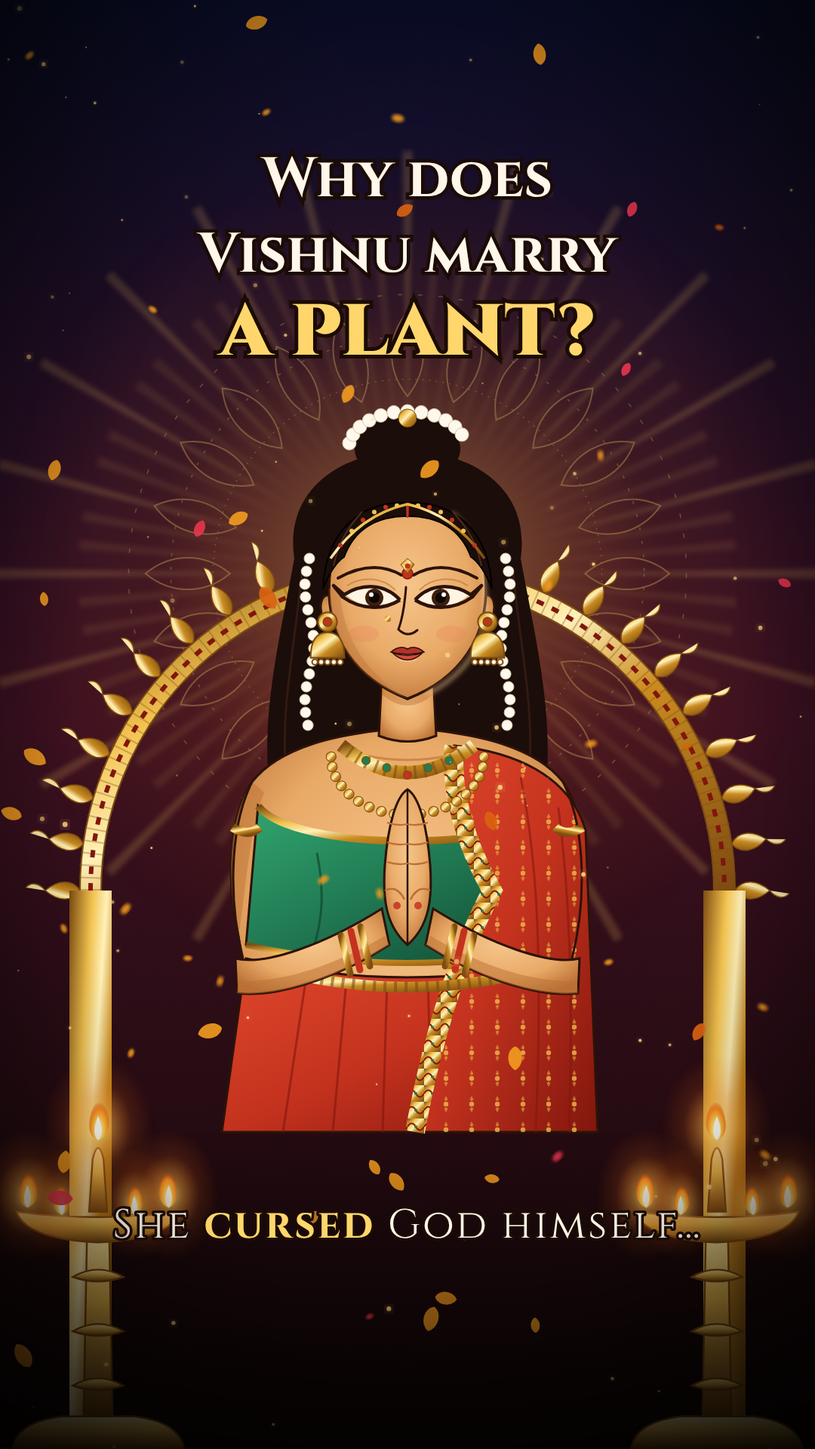
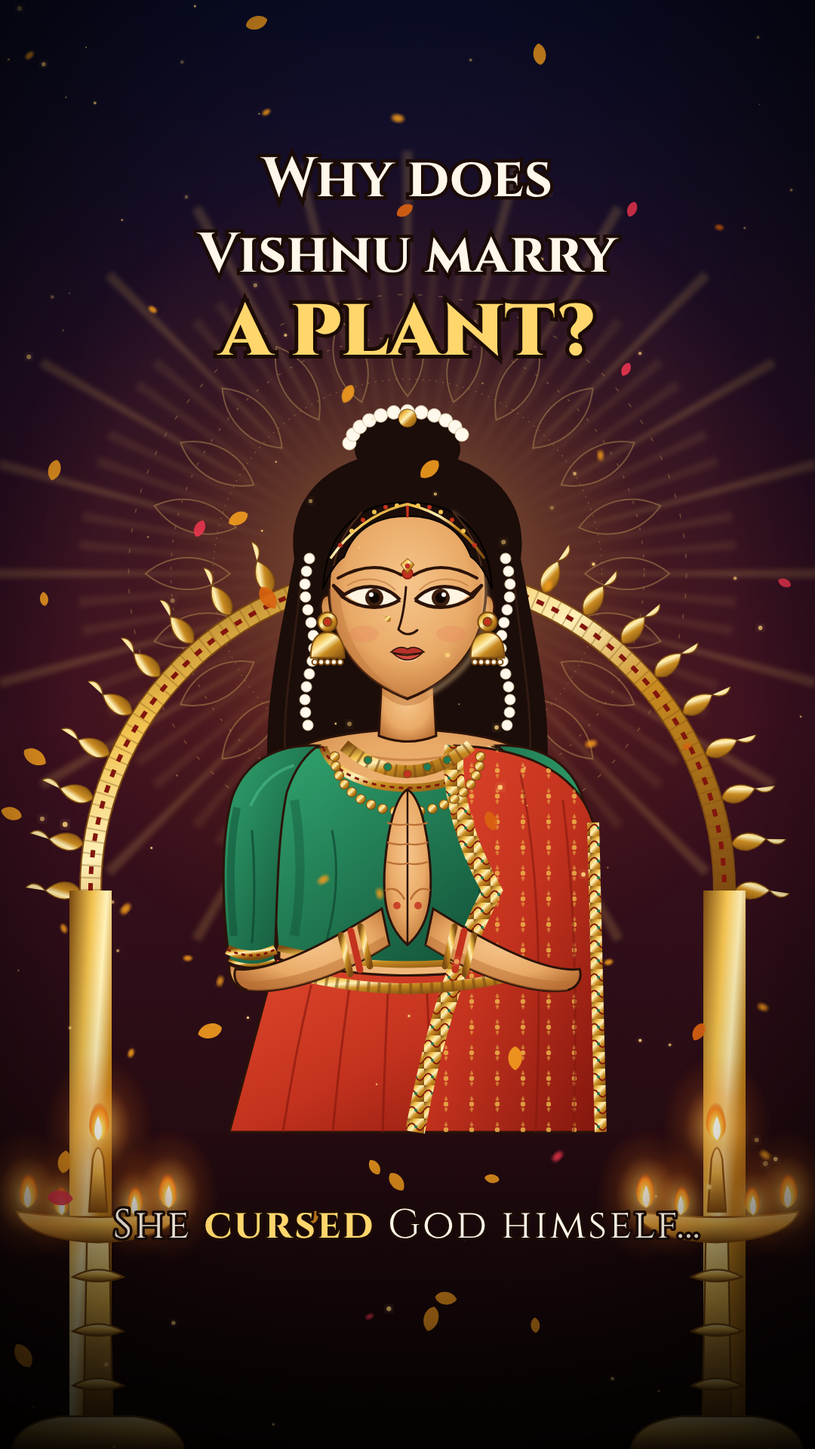
Fix Tulasi blouse sleeves and rebuild Vishnu anatomy
- Vrinda: elbow-length green blouse sleeves with gold borders, natural shoulders, re-anchored forearms
- Vishnu: V-shaped chest with slim waist, continuous spline arms (shoulder-elbow-wrist), detailed open palms for abhaya/varada, holding hands for chakra/shankha, aligned armbands

Claude-Session: https://claude.ai/code/session_01X3ArEdZK7W9b78YVvUKCgo

Changed region(s): [[0.275, 0.5, 0.7639, 0.7812], [0.3361, 0.7188, 0.3667, 0.75]]

diff --git a/devotional-studio/engine/art.js b/devotional-studio/engine/art.js
@@ -291,36 +291,49 @@ function vrinda(x, y, s = 1, o = {}) {
   };
   const tilak = `<circle cx="0" cy="-40" r="7" fill="${P.vermilion}" stroke="${P.vermDark}" stroke-width="1.5"/>`;
   const f = face({ id: 'vr' + (o.id || ''), x: 0, y: 0, s: 1, skin: 'url(#skinWarm)', shade: P.skinWarmShade, eyeOpen: o.eyeOpen ?? .85, look: o.look || 0, extra: tilak });
-  const torso = 'M-38 168 C -90 174 -168 188 -206 236 C -238 282 -240 372 -224 440 C -210 520 -220 600 -246 700 L 246 700 C 220 600 210 520 224 440 C 240 372 238 282 206 236 C 168 188 90 174 38 168Z';
+  // Torso with natural shoulders (±172), waist and flared skirt.
+  const torso = 'M-38 168 C -86 172 -140 180 -168 206 C -186 240 -184 330 -176 400 C -170 450 -168 470 -172 480 C -190 560 -214 630 -236 700 L 236 700 C 214 630 190 560 172 480 C 168 470 170 450 176 400 C 184 330 186 240 168 206 C 140 180 86 172 38 168Z';
+  // Elbow-length blouse sleeve (screen-left; mirrored for the other side).
+  const sleeve = (sx) => `<g transform="scale(${sx},1)">
+      <path d="M-118 188 C -170 186 -214 206 -232 256 C -246 300 -246 380 -240 440 L -236 474 Q -206 488 -176 474 L -174 420 C -172 360 -170 300 -160 250 C -150 220 -136 200 -118 188Z" fill="url(#greenCloth)" stroke="${P.ink}" stroke-width="3"/>
+      <path d="M-226 270 C -236 320 -236 380 -230 440" stroke="${P.greenDark}" stroke-width="10" fill="none" opacity=".45"/>
+      <path d="M-206 300 C -202 350 -202 400 -206 450" stroke="${P.greenDark}" stroke-width="3" fill="none" opacity=".7"/>
+      <path d="M-150 214 C -176 222 -196 240 -208 268" stroke="#4fc48e" stroke-width="4" fill="none" opacity=".5"/>
+      <path d="M-239 458 Q -206 474 -175 458" stroke="url(#gold)" stroke-width="13" fill="none"/>
+      <path d="M-239 458 Q -206 474 -175 458" stroke="${P.vermDark}" stroke-width="3" fill="none" stroke-dasharray="5 5"/>
+      <path d="M-237 472 Q -206 486 -176 472" stroke="url(#gold)" stroke-width="4" fill="none"/>
+      <!-- elbow peeking below the sleeve -->
+      <path d="M-236 478 Q -206 492 -176 478 C -176 500 -196 512 -210 512 C -226 512 -238 498 -236 478Z" fill="url(#skinWarm)" stroke="${P.ink}" stroke-width="3"/>
+    </g>`;
   const body = `
     <path d="${torso}" fill="url(#skinWarm)" stroke="${P.ink}" stroke-width="3"/>
-    <path d="M-206 236 C -238 282 -240 372 -224 440 C -214 380 -210 300 -190 250Z" fill="${P.skinWarmShade}" opacity=".45"/>
     <path d="M-60 200 Q 0 214 60 200" stroke="${P.skinWarmShade}" stroke-width="3" fill="none" opacity=".6"/>
-    <!-- blouse -->
-    <path d="M-198 268 C -150 330 150 330 198 268 L 214 452 Q 0 500 -214 452Z" fill="url(#greenCloth)" stroke="${P.ink}" stroke-width="3"/>
-    <path d="M-198 268 C -150 330 150 330 198 268" fill="none" stroke="url(#gold)" stroke-width="10"/>
-    <path d="M-214 452 Q 0 500 214 452" fill="none" stroke="url(#gold)" stroke-width="8"/>
-    <path d="M-120 330 C -110 380 -112 420 -126 460 M120 330 C 110 380 112 420 126 460" stroke="${P.greenDark}" stroke-width="3" fill="none" opacity=".7"/>
+    <!-- blouse body: covers shoulders, sweetheart neckline -->
+    <path d="M-168 206 C -150 194 -130 190 -112 190 C -86 262 86 262 112 190 C 130 190 150 194 168 206 C 186 240 184 330 176 400 L 172 456 Q 0 500 -172 456 L -176 400 C -184 330 -186 240 -168 206Z" fill="url(#greenCloth)" stroke="${P.ink}" stroke-width="3"/>
+    <path d="M-112 190 C -86 262 86 262 112 190" fill="none" stroke="url(#gold)" stroke-width="11"/>
+    <path d="M-112 190 C -86 262 86 262 112 190" fill="none" stroke="${P.vermDark}" stroke-width="3" stroke-dasharray="6 6"/>
+    <path d="M-172 456 Q 0 500 172 456" fill="none" stroke="url(#gold)" stroke-width="9"/>
+    <path d="M-100 300 C -90 350 -94 400 -108 450 M100 300 C 90 350 94 400 108 450" stroke="${P.greenDark}" stroke-width="3" fill="none" opacity=".7"/>
+    <path d="M-150 260 C -140 320 -140 380 -150 440" stroke="${P.greenDark}" stroke-width="12" fill="none" opacity=".35"/>
     <!-- waist + skirt pleats -->
-    <path d="M-214 470 Q 0 520 214 470 L 246 700 L -246 700Z" fill="url(#saree)" stroke="${P.ink}" stroke-width="3"/>
-    ${[-150, -90, -30, 30, 90, 150].map(px => `<path d="M${px * .9} ${500} Q ${px} 600 ${px * 1.1} 700" stroke="${P.vermDark}" stroke-width="3" fill="none" opacity=".6"/>`).join('')}
-    <!-- pallu over left shoulder -->
-    <path d="M62 188 C 140 196 214 226 236 300 L 252 700 L 10 700 C 30 590 60 480 112 380 C 78 320 56 250 62 188Z" fill="url(#saree)" stroke="${P.ink}" stroke-width="3"/>
-    <path d="M62 188 C 140 196 214 226 236 300 L 252 700 L 10 700 C 30 590 60 480 112 380 C 78 320 56 250 62 188Z" fill="url(#sareeMotif)"/>
-    <path d="M150 230 C 170 330 180 450 170 700 M200 270 C 214 380 220 500 214 700" stroke="${P.vermDark}" stroke-width="3" fill="none" opacity=".55"/>
+    <path d="M-174 470 Q 0 515 174 470 L 236 700 L -236 700Z" fill="url(#saree)" stroke="${P.ink}" stroke-width="3"/>
+    ${[-150, -90, -30, 30, 90, 150].map(px => `<path d="M${px * .85} ${505} Q ${px} 600 ${px * 1.1} 700" stroke="${P.vermDark}" stroke-width="3" fill="none" opacity=".6"/>`).join('')}
+    ${sleeve(1)}${sleeve(-1)}
+    <!-- pallu over left shoulder (screen right), covering that sleeve -->
+    <path d="M62 188 C 140 190 222 214 246 290 L 256 700 L 10 700 C 30 590 60 480 112 380 C 78 320 56 250 62 188Z" fill="url(#saree)" stroke="${P.ink}" stroke-width="3"/>
+    <path d="M62 188 C 140 190 222 214 246 290 L 256 700 L 10 700 C 30 590 60 480 112 380 C 78 320 56 250 62 188Z" fill="url(#sareeMotif)"/>
+    <path d="M150 226 C 170 330 180 450 170 700 M206 260 C 220 380 226 500 220 700" stroke="${P.vermDark}" stroke-width="3" fill="none" opacity=".55"/>
     <path d="M62 188 C 56 250 78 320 112 380 C 60 480 30 590 10 700" fill="none" stroke="url(#borderMotif)" stroke-width="26"/>
-    <path d="M-170 486 Q 0 530 170 486" stroke="url(#gold)" stroke-width="14" fill="none"/>
-    <path d="M-170 486 Q 0 530 170 486" stroke="${P.gold4}" stroke-width="14" stroke-dasharray="4 10" fill="none" opacity=".6"/>
-    ${necklaces(0, 194, 1.1)}
-    <path d="M-206 236 C -238 300 -236 400 -218 470" stroke="${P.ink}" stroke-width="3" fill="none"/>
-    <path d="M206 236 C 238 300 236 400 218 470" stroke="${P.ink}" stroke-width="3" fill="none"/>
-    ${[-1, 1].map(sx => `<path transform="scale(${sx},1)" d="M-232 296 Q -210 310 -196 296" stroke="url(#gold)" stroke-width="12" fill="none"/>`).join('')}`;
+    <path d="M246 290 L 256 700" fill="none" stroke="url(#borderMotif)" stroke-width="16"/>
+    <path d="M-150 490 Q 0 530 150 490" stroke="url(#gold)" stroke-width="14" fill="none"/>
+    <path d="M-150 490 Q 0 530 150 490" stroke="${P.gold4}" stroke-width="14" stroke-dasharray="4 10" fill="none" opacity=".6"/>
+    ${necklaces(0, 194, 1.05)}`;
   // anjali mudra: elbows at sides, forearms rising to palms pressed at chest
   const hands = `
     <g>
       ${[-1, 1].map(sx => `<g transform="scale(${sx},1)">
-        <path d="M-228 470 C -190 480 -110 452 -34 404 L -24 452 C -96 498 -176 522 -226 516Z" fill="url(#skinWarm)" stroke="${P.ink}" stroke-width="3"/>
-        <path d="M-226 516 C -176 522 -96 498 -24 452 L -30 440 C -100 482 -170 502 -224 500Z" fill="${P.skinWarmShade}" opacity=".5"/>
+        <path d="M-228 484 C -186 490 -110 452 -34 404 L -24 452 C -96 498 -170 518 -212 512 C -226 508 -232 496 -228 484Z" fill="url(#skinWarm)" stroke="${P.ink}" stroke-width="3"/>
+        <path d="M-212 512 C -170 518 -96 498 -24 452 L -30 440 C -100 482 -166 502 -214 500Z" fill="${P.skinWarmShade}" opacity=".5"/>
         ${[0, 13, 26].map(d => `<path d="M${-62 - d} ${428 + d * .45} L ${-50 - d} ${480 + d * .4}" stroke="${d === 13 ? P.vermilion : 'url(#gold)'}" stroke-width="9" stroke-linecap="round"/>`).join('')}
       </g>`).join('')}
       <path d="M0 246 C 16 256 26 296 30 346 C 33 388 30 426 0 452 C -30 426 -33 388 -30 346 C -26 296 -16 256 0 246Z" fill="url(#skinWarm)" stroke="${P.ink}" stroke-width="3"/>
@@ -338,12 +351,107 @@ function vrinda(x, y, s = 1, o = {}) {
   </g>`;
 }
 
-// Vishnu — frontal bust, four arms: chakra, shankha, abhaya and varada.
+// ---------- hands ----------
+// Open palm facing the viewer, fingers up. Origin = wrist centre. side=+1 puts the thumb on +x.
+function openPalm(skin, shade, side = 1) {
+  const fingers = [[-19, 40, 11], [-6, 47, 12], [7, 44, 12], [19, 34, 10.5]];
+  const f = fingers.map(([fx, len, w]) => {
+    const hw = w / 2, top = -58 - len;
+    return `<path d="M${fx - hw} -56 L ${fx - hw} ${top + hw} A ${hw} ${hw} 0 0 1 ${fx + hw} ${top + hw} L ${fx + hw} -56Z" fill="${skin}" stroke="${P.ink}" stroke-width="2.4"/>
+      <path d="M${fx - hw + 2} ${-58 - len * .38} h ${w - 4} M${fx - hw + 2} ${-58 - len * .7} h ${w - 4}" stroke="${shade}" stroke-width="1.6"/>
+      <ellipse cx="${fx}" cy="${top + hw + 3}" rx="${hw * .55}" ry="${hw * .7}" fill="#f2b7a8" opacity=".55"/>`;
+  }).join('');
+  const thumb = `<path transform="scale(${side},1)" d="M22 -14 C 34 -18 46 -34 48 -50 C 49 -60 40 -63 35 -55 C 32 -44 28 -36 20 -32Z" fill="${skin}" stroke="${P.ink}" stroke-width="2.4"/>`;
+  return `${thumb}
+    <path d="M-25 2 C -28 -18 -29 -40 -25 -60 L 25 -60 C 29 -40 28 -18 25 2 Q 0 10 -25 2Z" fill="${skin}" stroke="${P.ink}" stroke-width="2.6"/>
+    ${f}
+    <path d="M-25 -58 L 25 -58" stroke="${shade}" stroke-width="1.5" opacity=".6"/>
+    <path transform="scale(${side},1)" d="M-18 -44 Q 0 -36 18 -46 M-20 -28 Q -2 -22 12 -30 M14 -10 Q 4 -30 14 -52" stroke="${shade}" stroke-width="1.8" fill="none"/>
+    <circle cx="0" cy="-30" r="8" fill="none" stroke="${P.vermilion}" stroke-width="2.6"/>
+    <circle cx="0" cy="-30" r="2.5" fill="${P.vermilion}"/>
+    <path d="M-27 4 Q 0 14 27 4" stroke="url(#gold)" stroke-width="11" fill="none"/>
+    <path d="M-27 4 Q 0 14 27 4" stroke="${P.vermilion}" stroke-width="2.5" fill="none" stroke-dasharray="4 6"/>`;
+}
+
+// Back of a hand holding something from below: curled fingers, index raised (for the chakra).
+function holdingHand(skin, shade, side = 1, indexUp = true) {
+  const curled = [[-12, 0], [0, 2], [12, 4]].map(([fx, dy]) => `<path d="M${fx - 6} ${-50 + dy} C ${fx - 7} ${-66 + dy} ${fx + 7} ${-66 + dy} ${fx + 6} ${-50 + dy}" fill="${skin}" stroke="${P.ink}" stroke-width="2.2"/>`).join('');
+  const index = indexUp ? `<path transform="scale(${side},1)" d="M-24 -48 L -25 -98 A 5.5 5.5 0 0 1 -14 -98 L -13 -48Z" fill="${skin}" stroke="${P.ink}" stroke-width="2.2"/>`
+    : `<path transform="scale(${side},1)" d="M-25 -50 C -27 -66 -11 -66 -12 -50" fill="${skin}" stroke="${P.ink}" stroke-width="2.2"/>`;
+  return `<path d="M-24 2 C -27 -16 -27 -34 -24 -50 L 24 -50 C 27 -34 27 -16 24 2 Q 0 10 -24 2Z" fill="${skin}" stroke="${P.ink}" stroke-width="2.6"/>
+    ${index}${curled}
+    <path transform="scale(${side},1)" d="M24 -20 C 34 -24 38 -36 32 -44 C 28 -48 22 -44 22 -40" fill="${skin}" stroke="${P.ink}" stroke-width="2.2"/>
+    <path d="M-16 -18 Q 0 -12 16 -18" stroke="${shade}" stroke-width="1.6" fill="none"/>
+    <path d="M-26 4 Q 0 14 26 4" stroke="url(#gold)" stroke-width="11" fill="none"/>`;
+}
+
+// A limb segment as a tapered capsule between two joints (ax,ay)->(bx,by).
+function limb(ax, ay, bx, by, wa, wb, fill, shade) {
+  const dx = bx - ax, dy = by - ay, L = Math.hypot(dx, dy), nx = -dy / L, ny = dx / L;
+  const p = (x, y, w, k) => [x + nx * w * k, y + ny * w * k];
+  const [a1x, a1y] = p(ax, ay, wa / 2, 1), [a2x, a2y] = p(ax, ay, wa / 2, -1);
+  const [b1x, b1y] = p(bx, by, wb / 2, 1), [b2x, b2y] = p(bx, by, wb / 2, -1);
+  const bulge = .08 * L;
+  const m1x = (a1x + b1x) / 2 + nx * bulge, m1y = (a1y + b1y) / 2 + ny * bulge;
+  const m2x = (a2x + b2x) / 2 - nx * bulge * .6, m2y = (a2y + b2y) / 2 - ny * bulge * .6;
+  return `<path d="M${a1x} ${a1y} Q ${m1x} ${m1y} ${b1x} ${b1y} A ${wb / 2} ${wb / 2} 0 0 0 ${b2x} ${b2y} Q ${m2x} ${m2y} ${a2x} ${a2y} A ${wa / 2} ${wa / 2} 0 0 0 ${a1x} ${a1y}Z" fill="${fill}" stroke="${P.ink}" stroke-width="3"/>
+    <path d="M${a2x} ${a2y} Q ${m2x} ${m2y} ${b2x} ${b2y}" stroke="${shade}" stroke-width="${Math.min(wa, wb) * .28}" fill="none" opacity=".45" stroke-linecap="round"/>`;
+}
+
+
+// Catmull-Rom spline through points -> SVG cubic path segments (no leading M).
+function crPath(pts) {
+  let d = '';
+  for (let i = 0; i < pts.length - 1; i++) {
+    const p0 = pts[Math.max(0, i - 1)], p1 = pts[i], p2 = pts[i + 1], p3 = pts[Math.min(pts.length - 1, i + 2)];
+    const c1 = [p1[0] + (p2[0] - p0[0]) / 6, p1[1] + (p2[1] - p0[1]) / 6];
+    const c2 = [p2[0] - (p3[0] - p1[0]) / 6, p2[1] - (p3[1] - p1[1]) / 6];
+    d += ` C ${c1[0].toFixed(1)} ${c1[1].toFixed(1)} ${c2[0].toFixed(1)} ${c2[1].toFixed(1)} ${p2[0].toFixed(1)} ${p2[1].toFixed(1)}`;
+  }
+  return d;
+}
+
+// One continuous arm: shoulder -> elbow -> wrist, smooth bend, bicep + forearm bulge.
+// w = [shoulder, bicep, elbow, forearm, wrist] widths.
+function arm(sh, el, wr, fill, shade, w = [74, 72, 52, 54, 40]) {
+  const sub = (a, b) => [a[0] - b[0], a[1] - b[1]];
+  const nrm = (v) => { const L = Math.hypot(v[0], v[1]); return [-v[1] / L, v[0] / L]; };
+  const lerp = (a, b, t) => [a[0] + (b[0] - a[0]) * t, a[1] + (b[1] - a[1]) * t];
+  const n1 = nrm(sub(el, sh)), n2 = nrm(sub(wr, el));
+  let ne = [n1[0] + n2[0], n1[1] + n2[1]]; const L = Math.hypot(ne[0], ne[1]) || 1; ne = [ne[0] / L, ne[1] / L];
+  const off = (p, n, d) => [p[0] + n[0] * d, p[1] + n[1] * d];
+  const mid1 = lerp(sh, el, .45), mid2 = lerp(el, wr, .35);
+  const sideA = [off(sh, n1, w[0] / 2), off(mid1, n1, w[1] / 2), off(el, ne, w[2] / 2), off(mid2, n2, w[3] / 2), off(wr, n2, w[4] / 2)];
+  const sideB = [off(sh, n1, -w[0] / 2), off(mid1, n1, -w[1] / 2 * .92), off(el, ne, -w[2] / 2), off(mid2, n2, -w[3] / 2 * .95), off(wr, n2, -w[4] / 2)];
+  const rb = [...sideB].reverse();
+  const d = `M ${sideA[0][0]} ${sideA[0][1]}${crPath(sideA)} A ${w[4] / 2} ${w[4] / 2} 0 0 1 ${rb[0][0]} ${rb[0][1]}${crPath(rb)} A ${w[0] / 2} ${w[0] / 2} 0 0 1 ${sideA[0][0]} ${sideA[0][1]}Z`;
+  const shadeLine = `M ${sideB[0][0]} ${sideB[0][1]}${crPath(sideB)}`;
+  const eIn = off(el, ne, -w[2] * .32), eIn2 = off(lerp(el, wr, .12), n2, -w[3] * .2);
+  return `<path d="${d}" fill="${fill}" stroke="${P.ink}" stroke-width="3" stroke-linejoin="round"/>
+    <path d="${shadeLine}" stroke="${shade}" stroke-width="${w[4] * .45}" fill="none" opacity=".4" stroke-linecap="round"/>
+    <path d="M ${sideA[1][0]} ${sideA[1][1]} Q ${off(mid1, n1, w[1] * .2)[0]} ${off(mid1, n1, w[1] * .2)[1]} ${off(lerp(sh, el, .75), n1, w[1] * .1)[0]} ${off(lerp(sh, el, .75), n1, w[1] * .1)[1]}" stroke="#9cc0ff" stroke-width="3" fill="none" opacity=".35"/>
+    <path d="M ${eIn[0]} ${eIn[1]} Q ${el[0]} ${el[1]} ${eIn2[0]} ${eIn2[1]}" stroke="${shade}" stroke-width="2.5" fill="none" opacity=".8"/>`;
+}
+
+const bandOn = (a, b, t, w) => {
+  const x = a[0] + (b[0] - a[0]) * t, y = a[1] + (b[1] - a[1]) * t;
+  const ang = Math.atan2(b[1] - a[1], b[0] - a[0]) * 180 / Math.PI + 90;
+  return armBand(x, y, ang, w);
+};
+const armBand = (x, y, ang, w) => `<g transform="translate(${x},${y}) rotate(${ang})">
+  <rect x="${-w / 2 - 3}" y="-7" width="${w + 6}" height="14" rx="5" fill="url(#gold)" stroke="${P.gold4}" stroke-width="1.5"/>
+  <path d="M0 -7 l 8 -12 -8 -8 -8 8z" fill="url(#gold)" stroke="${P.gold4}" stroke-width="1.5"/><circle cx="0" cy="-16" r="3.5" fill="${P.vermilion}"/></g>`;
+
+// Vishnu — frontal, Kerala-mural proportions. Four arms:
+// back-right: chakra, back-left: shankha, front-right: abhaya (palm raised), front-left: varada (palm down).
+// "right"/"left" are his; on screen his right hand is at -x.
 function vishnu(x, y, s = 1, o = {}) {
+  const SK = 'url(#skinBlue)', SH = P.skinBlueShade;
   const namam = `<path d="M-14 -40 L -10 -88 M14 -40 L 10 -88" stroke="#fff6e0" stroke-width="7" stroke-linecap="round"/>
     <path d="M0 -40 L 0 -90" stroke="${P.vermilion}" stroke-width="6" stroke-linecap="round"/>
     <path d="M-14 -40 Q 0 -26 14 -40" stroke="#fff6e0" stroke-width="7" fill="none"/>`;
-  const f = face({ id: 'vi', x: 0, y: 0, s: 1, skin: 'url(#skinBlue)', shade: P.skinBlueShade, eyeOpen: o.eyeOpen ?? .7, browW: 5, blush: 0, lip: '#9c2a3a', lip2: '#c2414e', rim: '#cfe2ff', extra: namam });
+  const f = face({ id: 'vi', x: 0, y: 0, s: 1, skin: SK, shade: SH, eyeOpen: o.eyeOpen ?? .7, browW: 5, blush: 0, lip: '#9c2a3a', lip2: '#c2414e', rim: '#cfe2ff', extra: namam });
+
   const crown = `
     <g stroke="${P.gold4}" stroke-width="2">
       <path d="M-114 -58 L -104 -140 L 104 -140 L 114 -58 Q 0 -84 -114 -58Z" fill="url(#gold)"/>
@@ -355,56 +463,74 @@ function vishnu(x, y, s = 1, o = {}) {
       <path d="M-84 -300 Q 0 -340 84 -300 L 46 -360 Q 0 -390 -46 -360Z" fill="url(#gold)"/>
       <path d="M0 -380 C 22 -400 18 -430 0 -450 C -18 -430 -22 -400 0 -380Z" fill="url(#gold)"/>
       <circle cx="0" cy="-404" r="6" fill="${P.vermilion}"/>
-      <path d="M-114 -58 C -170 -50 -184 30 -156 96 M114 -58 C 170 -50 184 30 156 96" fill="none" stroke="url(#gold)" stroke-width="14"/>
+      <path d="M-114 -58 C -160 -50 -172 20 -150 80 M114 -58 C 160 -50 172 20 150 80" fill="none" stroke="url(#gold)" stroke-width="12"/>
     </g>`;
   const curls = (sx) => [...Array(7)].map((_, i) => `<path transform="scale(${sx},1)" d="M104 ${-56 + i * 28} q 30 6 22 32 q -16 8 -22 -6" fill="#120a1a" stroke="#000" stroke-width="1.5"/>`).join('');
-  const torso = 'M-36 168 C -110 172 -210 184 -240 236 C -262 280 -246 340 -214 380 C -190 420 -176 480 -170 600 L 170 600 C 176 480 190 420 214 380 C 246 340 262 280 240 236 C 210 184 110 172 36 168Z';
-  const upperArm = (sx) => `<g transform="scale(${sx},1)">
-      <path d="M200 226 C 260 200 300 120 314 30 L 364 40 C 356 150 304 250 228 290Z" fill="url(#skinBlue)" stroke="${P.ink}" stroke-width="3"/>
-      <path d="M316 56 L 362 64" stroke="url(#gold)" stroke-width="16"/>
-      <path d="M244 214 L 286 236" stroke="url(#gold)" stroke-width="12"/></g>`;
-  const palm = (cx, cy, rot = 0) => `<g transform="translate(${cx},${cy}) rotate(${rot})">
-      <path d="M-30 30 L -32 -20 C -32 -32 -22 -34 -20 -22 L -20 -50 C -20 -62 -8 -62 -8 -50 L -8 -58 C -8 -70 6 -70 6 -58 L 6 -52 C 6 -64 20 -64 20 -52 L 20 -36 C 20 -46 32 -46 32 -34 L 30 30 Q 0 42 -30 30Z" fill="url(#skinBlue)" stroke="${P.ink}" stroke-width="2.5"/>
-      <circle cx="0" cy="4" r="9" fill="none" stroke="${P.vermilion}" stroke-width="3"/>
-      <path d="M-30 34 Q 0 46 30 34" stroke="url(#gold)" stroke-width="10" fill="none"/></g>`;
+
+  // Joints (screen coords, local units). Shoulders at ±188, y 236.
+  const J = {
+    bR: { sh: [-170, 226], el: [-286, 178], wr: [-322, 62] },  // back right (chakra)
+    bL: { sh: [170, 226], el: [286, 178], wr: [322, 62] },     // back left (shankha)
+    fR: { sh: [-180, 246], el: [-236, 444], wr: [-300, 338] }, // front right (abhaya: forearm raised, angled out)
+    fL: { sh: [180, 246], el: [232, 440], wr: [270, 548] },    // front left (varada: forearm lowered, palm out)
+  };
+  const backArm = (j, sx) => `
+    ${arm(j.sh, j.el, j.wr, SK, SH, [64, 62, 46, 46, 36])}
+    ${bandOn(j.sh, j.el, .42, 64)}
+    ${bandOn(j.el, j.wr, .9, 44)}`;
   const chakra = (cx, cy) => `<g transform="translate(${cx},${cy})">
-    <circle r="90" fill="url(#lampGlow)"/>
+    <circle r="96" fill="url(#lampGlow)"/>
+    ${[...Array(16)].map((_, i) => `<path transform="rotate(${i * 22.5})" d="M0 -44 C 9 -56 10 -68 0 -78 C -10 -68 -9 -56 0 -44Z" fill="url(#gold)" stroke="${P.gold4}"/>`).join('')}
     <circle r="46" fill="url(#gold)" stroke="${P.gold4}" stroke-width="3"/>
-    ${[...Array(16)].map((_, i) => `<path transform="rotate(${i * 22.5})" d="M0 -46 C 8 -56 10 -66 0 -74 C -10 -66 -8 -56 0 -46Z" fill="url(#gold)" stroke="${P.gold4}"/>`).join('')}
-    ${[...Array(8)].map((_, i) => `<path transform="rotate(${i * 45})" d="M0 0 L 0 -40" stroke="${P.gold4}" stroke-width="4"/>`).join('')}
-    <circle r="30" fill="none" stroke="${P.vermDark}" stroke-width="3"/>
+    <circle r="38" fill="none" stroke="${P.gold4}" stroke-width="2"/>
+    ${[...Array(12)].map((_, i) => `<path transform="rotate(${i * 30})" d="M0 -10 L 3 -36 L 0 -38 L -3 -36Z" fill="${P.gold4}"/>`).join('')}
     <circle r="12" fill="${P.vermilion}" stroke="${P.gold4}" stroke-width="2"/></g>`;
   const shankha = (cx, cy) => `<g transform="translate(${cx},${cy})">
-    <circle r="80" fill="url(#lampGlow)" opacity=".6"/>
-    <path d="M0 -62 C 36 -52 46 -10 32 30 C 22 52 -22 52 -32 30 C -46 -10 -36 -52 0 -62Z" fill="#fffaf0" stroke="${P.gold4}" stroke-width="3"/>
-    <path d="M-20 -30 Q 0 -10 22 -34 M-26 0 Q 0 18 28 -4 M-22 26 Q 0 40 22 24" fill="none" stroke="#d8c8a8" stroke-width="3"/>
-    <path d="M-34 -10 Q -52 -30 -40 -54" stroke="url(#gold)" stroke-width="8" fill="none"/>
-    <path d="M-14 50 Q 0 72 14 50" fill="url(#gold)" stroke="${P.gold4}"/></g>`;
+    <circle r="86" fill="url(#lampGlow)" opacity=".6"/>
+    <path d="M0 -64 C 38 -54 48 -10 34 32 C 24 54 -24 54 -34 32 C -48 -10 -38 -54 0 -64Z" fill="#fffaf0" stroke="${P.gold4}" stroke-width="3"/>
+    <path d="M-20 -32 Q 0 -12 22 -36 M-26 0 Q 0 18 28 -4 M-22 28 Q 0 42 22 26" fill="none" stroke="#d8c8a8" stroke-width="3"/>
+    <path d="M30 -16 Q 50 -34 40 -58" stroke="url(#gold)" stroke-width="8" fill="none"/>
+    <path d="M-16 50 Q 0 74 16 50" fill="url(#gold)" stroke="${P.gold4}"/></g>`;
+  // Torso: broad shoulders, chest tapering to a narrow waist (classic lion-chest, slim-waist ideal).
+  const torso = 'M-40 170 C -100 174 -160 186 -192 214 C -214 240 -210 300 -190 350 C -170 400 -146 450 -136 520 L -132 600 L 132 600 L 136 520 C 146 450 170 400 190 350 C 210 300 214 240 192 214 C 160 186 100 174 40 170Z';
+
   return `<g transform="translate(${x},${y}) scale(${s})">
-    <path d="M-150 -40 C -170 60 -180 160 -170 240 L 170 240 C 180 160 170 60 150 -40Z" fill="#120a1a"/>
+    <path d="M-150 -40 C -168 60 -176 150 -168 236 L 168 236 C 176 150 168 60 150 -40Z" fill="#120a1a"/>
     ${curls(1)}${curls(-1)}
-    ${upperArm(1)}${upperArm(-1)}
-    ${chakra(-340, -10)}${shankha(340, -10)}
-    <path d="${torso}" fill="url(#skinBlue)" stroke="${P.ink}" stroke-width="3"/>
-    <path d="M-240 236 C -262 280 -246 340 -214 380 C -230 330 -232 280 -214 246Z" fill="${P.skinBlueShade}" opacity=".5"/>
-    <path d="M-120 300 Q -60 328 -12 304 M120 300 Q 60 328 12 304" stroke="${P.skinBlueShade}" stroke-width="4" fill="none"/>
-    <path d="M0 420 Q 6 440 0 456" stroke="${P.skinBlueShade}" stroke-width="4" fill="none"/>
-    <path d="M-60 400 Q 0 410 60 400" stroke="${P.skinBlueShade}" stroke-width="3" fill="none" opacity=".6"/>
-    <path d="M-158 204 C -60 300 40 420 110 600" stroke="#fff6e0" stroke-width="6" fill="none"/>
-    <!-- lower arms: abhaya (screen right) and varada (screen left) -->
-    <path d="M226 250 C 280 300 300 380 290 450 L 250 462 C 250 400 240 330 214 300Z" fill="url(#skinBlue)" stroke="${P.ink}" stroke-width="3"/>
-    <path d="M252 470 C 266 430 276 390 280 360 L 318 362 C 316 410 304 452 290 480 Q 270 490 252 470Z" fill="url(#skinBlue)" stroke="${P.ink}" stroke-width="3"/>
-    <g transform="translate(300,318) scale(1.35)">${palm(0, 0, 0).replace(/translate\(0,0\) /, '')}</g>
-    <path d="M-226 250 C -280 300 -300 380 -292 450 L -252 462 C -252 400 -240 330 -214 300Z" fill="url(#skinBlue)" stroke="${P.ink}" stroke-width="3"/>
-    <path d="M-292 448 C -300 520 -304 570 -300 600 L -262 600 C -260 560 -256 510 -252 460Z" fill="url(#skinBlue)" stroke="${P.ink}" stroke-width="3"/>
-    <path d="M-296 470 L -256 476" stroke="url(#gold)" stroke-width="12"/>
-    <g transform="translate(-281,646) scale(1.35)">${palm(0, 0, 180)}</g>
-    <path d="M-190 600 Q 0 630 190 600 L 200 700 L -200 700Z" fill="url(#pitambara)" stroke="${P.ink}" stroke-width="3"/>
-    <path d="M-196 560 Q 0 600 196 560 L 190 610 Q 0 640 -190 610Z" fill="url(#borderMotif)" stroke="${P.ink}" stroke-width="2"/>
-    ${necklaces(0, 192, 1.2, 1.1)}
-    <path d="M-176 210 C -156 400 -70 540 0 580 C 70 540 156 400 176 210" fill="none" stroke="${P.green}" stroke-width="16" stroke-dasharray="14 6"/>
-    <path d="M-176 210 C -156 400 -70 540 0 580 C 70 540 156 400 176 210" fill="none" stroke="#f0d26a" stroke-width="5" stroke-dasharray="4 16"/>
-    <path d="M-36 380 C -30 330 30 330 36 380 L 0 410Z" fill="#fff2d0" opacity=".0"/>
+    <!-- back arms (behind torso) -->
+    ${backArm(J.bR, -1)}${backArm(J.bL, 1)}
+    <g transform="translate(${J.bR.wr[0]},${J.bR.wr[1]})">${holdingHand(SK, SH, -1, true)}</g>
+    ${chakra(J.bR.wr[0] - 19, J.bR.wr[1] - 150)}
+    ${shankha(J.bL.wr[0], J.bL.wr[1] - 96)}
+    <g transform="translate(${J.bL.wr[0]},${J.bL.wr[1]})">${holdingHand(SK, SH, 1, false)}</g>
+    <!-- torso -->
+    <path d="${torso}" fill="${SK}" stroke="${P.ink}" stroke-width="3"/>
+    <path d="M-192 214 C -214 240 -210 300 -190 350 C -170 400 -146 450 -136 520 C -150 450 -176 380 -184 320 C -190 280 -190 240 -180 222Z" fill="${SH}" opacity=".5"/>
+    <path d="M-150 290 Q -80 336 -8 306 M150 290 Q 80 336 8 306" stroke="${SH}" stroke-width="4" fill="none" stroke-linecap="round"/>
+    <path d="M-120 300 Q -80 320 -40 312" stroke="#9cc0ff" stroke-width="3" fill="none" opacity=".35"/>
+    <path d="M0 330 L 0 500" stroke="${SH}" stroke-width="2.5" opacity=".55"/>
+    <path d="M-70 400 Q 0 414 70 400 M-60 448 Q 0 460 60 448" stroke="${SH}" stroke-width="2.5" fill="none" opacity=".5"/>
+    <path d="M0 482 Q 7 494 0 506" stroke="${SH}" stroke-width="4" fill="none"/>
+    <path d="M-60 210 Q 0 222 60 210" stroke="${SH}" stroke-width="3" fill="none" opacity=".6"/>
+    <!-- sacred thread from his left shoulder to right hip -->
+    <path d="M150 200 C 80 300 -20 420 -110 590" stroke="#fff6e0" stroke-width="5" fill="none"/>
+    <path d="M150 200 C 80 300 -20 420 -110 590" stroke="#d8c8a8" stroke-width="5" fill="none" stroke-dasharray="2 10"/>
+    <!-- pitambara + waist belt -->
+    <path d="M-136 540 Q 0 566 136 540 L 150 700 L -150 700Z" fill="url(#pitambara)" stroke="${P.ink}" stroke-width="3"/>
+    ${[-90, -30, 30, 90].map(px => `<path d="M${px} 560 Q ${px * 1.05} 630 ${px * 1.12} 700" stroke="#a8640a" stroke-width="3" fill="none" opacity=".6"/>`).join('')}
+    <path d="M-138 516 Q 0 546 138 516 L 136 552 Q 0 580 -136 552Z" fill="url(#borderMotif)" stroke="${P.ink}" stroke-width="2"/>
+    <path d="M0 548 l 18 20 -18 26 -18 -26z" fill="url(#gold)" stroke="${P.gold4}" stroke-width="2"/><circle cx="0" cy="572" r="7" fill="${P.vermilion}"/>
+    ${necklaces(0, 192, 1.15, 1.0)}
+    <!-- vanamala: forest garland -->
+    <path d="M-150 206 C -150 380 -80 540 0 610 C 80 540 150 380 150 206" fill="none" stroke="${P.green}" stroke-width="16" stroke-dasharray="14 6"/>
+    <path d="M-150 206 C -150 380 -80 540 0 610 C 80 540 150 380 150 206" fill="none" stroke="#f0d26a" stroke-width="5" stroke-dasharray="4 16"/>
+    <!-- front arms -->
+    ${arm(J.fR.sh, J.fR.el, J.fR.wr, SK, SH)}
+    ${bandOn(J.fR.sh, J.fR.el, .3, 72)}
+    <g transform="translate(${J.fR.wr[0]},${J.fR.wr[1]}) rotate(-16) scale(1.3)">${openPalm(SK, SH, 1)}</g>
+    ${arm(J.fL.sh, J.fL.el, J.fL.wr, SK, SH)}
+    ${bandOn(J.fL.sh, J.fL.el, .3, 72)}
+    <g transform="translate(${J.fL.wr[0]},${J.fL.wr[1]}) rotate(${180 - 18}) scale(1.2)">${openPalm(SK, SH, 1)}</g>
     ${f}${crown}
     ${jhumka(-112, 34, 1.6)}${jhumka(112, 34, 1.6)}
   </g>`;

diff --git a/devotional-studio/style-frames/frames.js b/devotional-studio/style-frames/frames.js
@@ -40,7 +40,7 @@ function frameVishnu() {
     <ellipse cx="960" cy="420" rx="760" ry="620" fill="url(#blueGlow)" opacity=".7"/>
     ${A.mandalaGlow(960, 330, 560, '#bcd6ff', .45)}
     ${A.prabhavali(960, 860, 570, { flames: 29, thick: 30, pillar: 300 })}
-    ${A.vishnu(960, 500, .82)}
+    ${A.vishnu(960, 456, .8)}
     ${A.petals(31, 26, W, H, { op: .8 })}
     ${A.captionBand(W, H)}
     ${caption(W, 1010, [['But the one who came to her door… was ', 0], ['Vishnu', 1]])}
